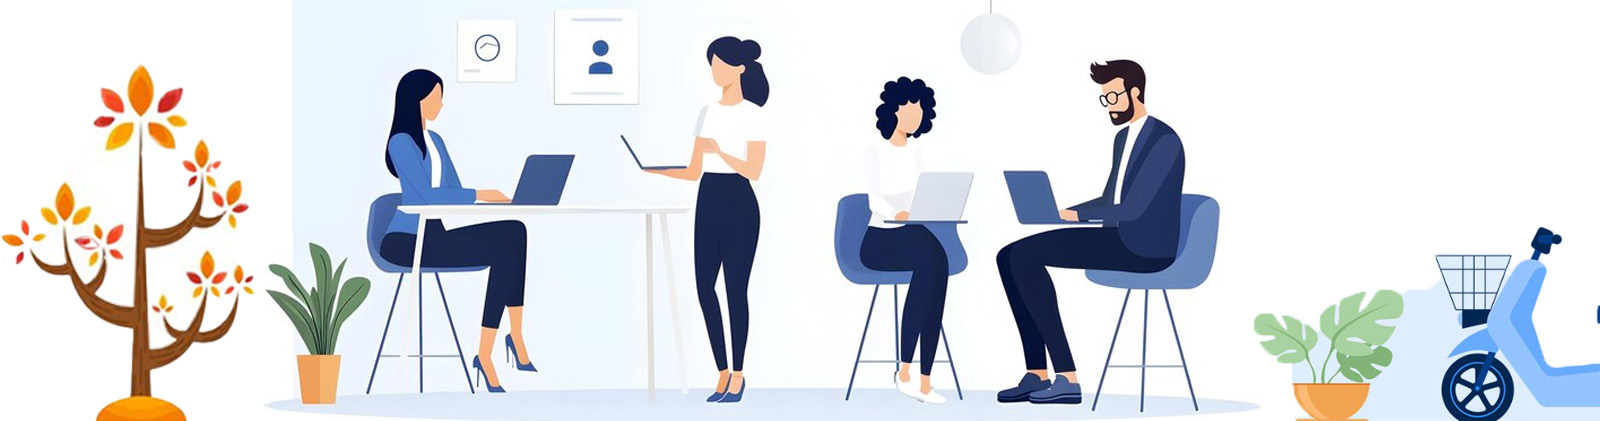
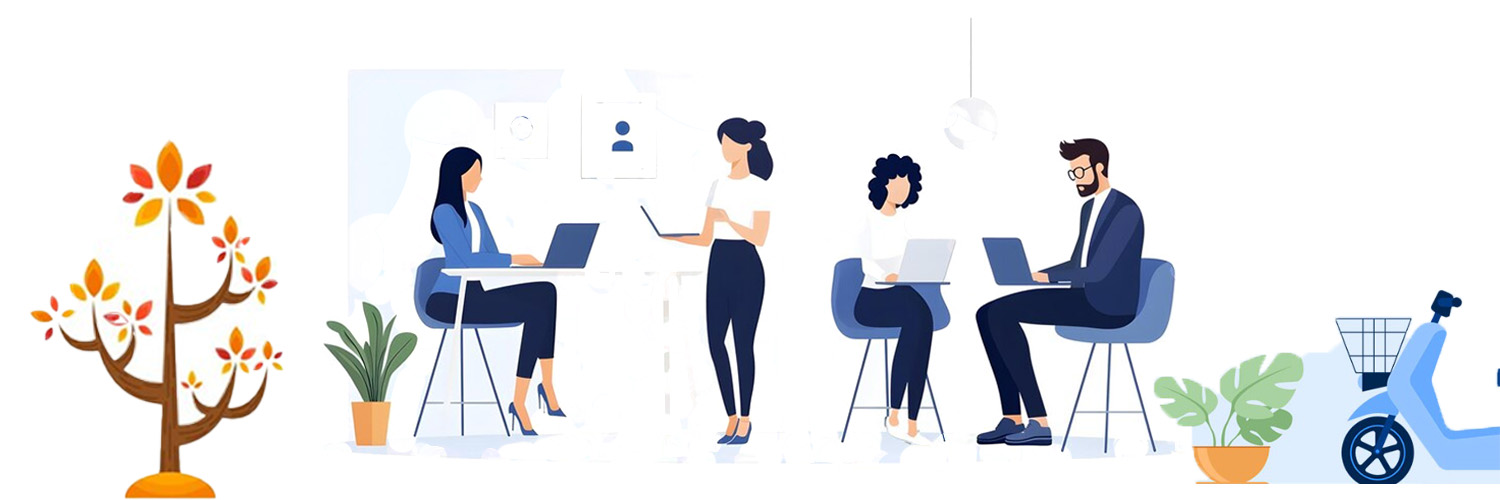
change in background

diff --git a/zipto/home-2.html b/zipto/home-2.html
@@ -197,7 +197,7 @@
 
         <!-- banner wrapper -->
         <div class="banner-wrapper style1 bg-image-contain"
-            style="background-image: url(images/image\ of\ background.png);">
+            style="background-image: url(images/gandu.jpg);">
             <div class="tab-wrapper">
                 <div class="container">
                     <div class="row">
